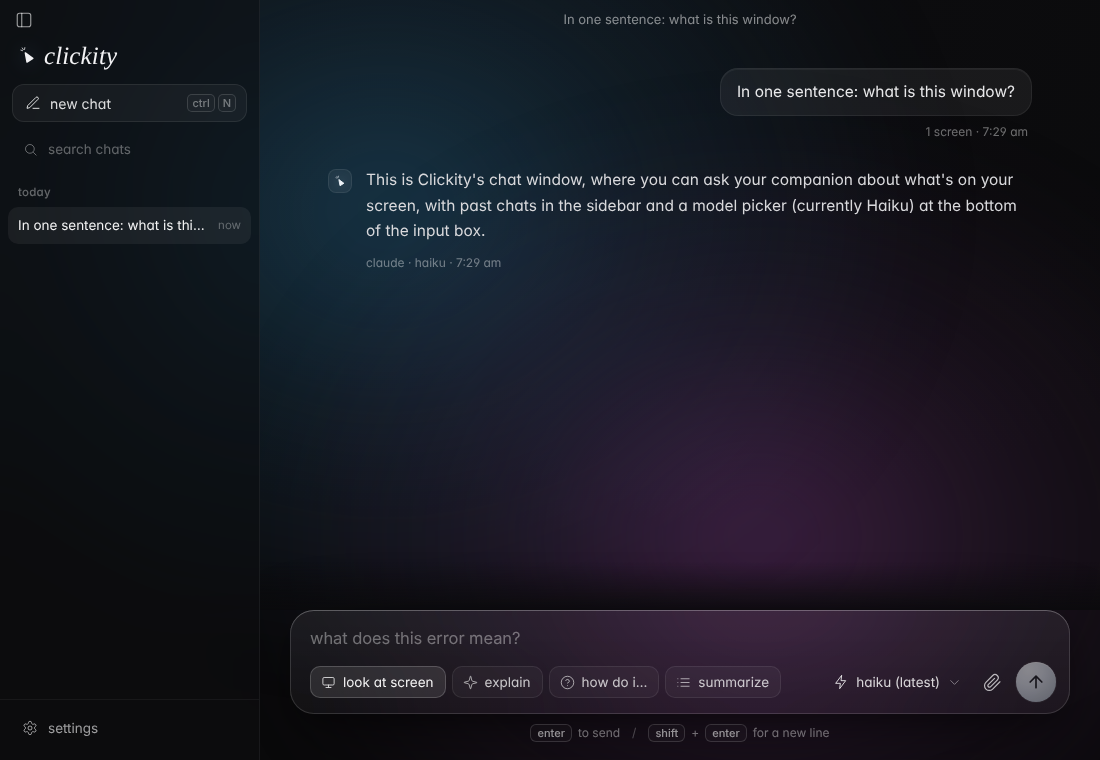
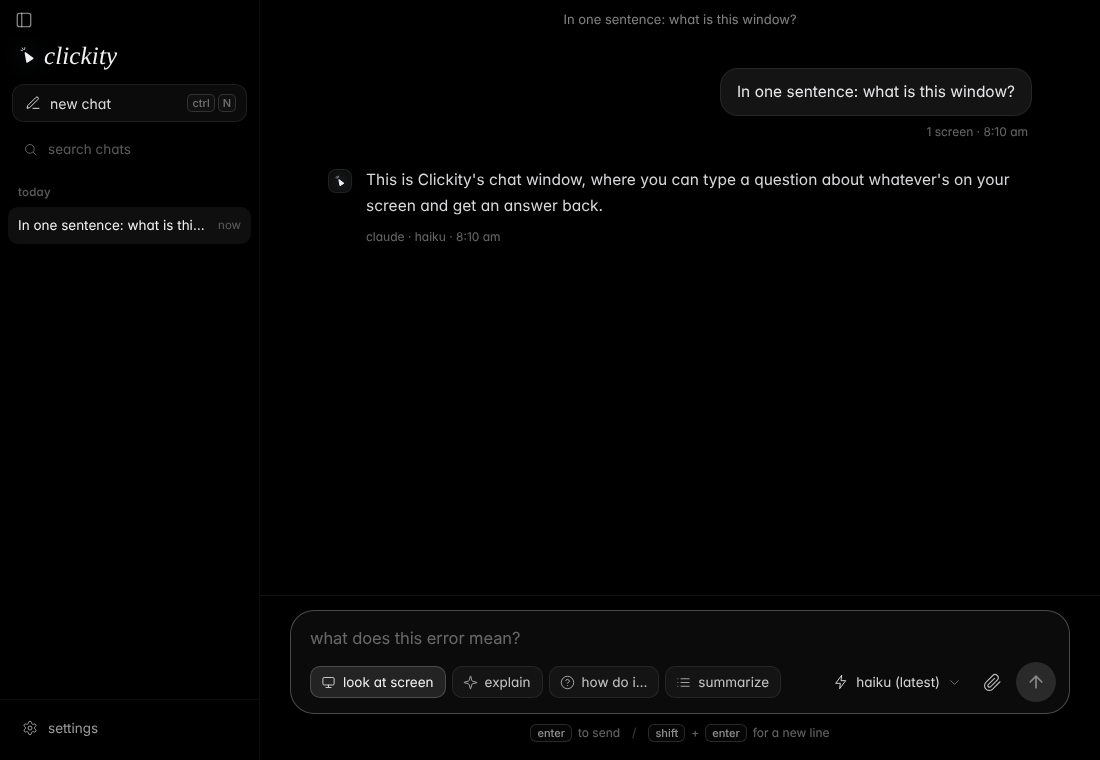
Chats window: pure black, no gradients or glows; motion with anime.js
- flat near-black surfaces with hairlines, solid send button, no backdrop blur
- anime.js (v4): messages rise in, empty state enters in sequence, sidebar rows
  settle, springy send press, popovers open from their anchor
- signature: the mark's click ticks fire whenever clickity starts answering
- all motion skipped under prefers-reduced-motion

diff --git a/src/renderer/chats/chats.css b/src/renderer/chats/chats.css
@@ -2,8 +2,10 @@
 
 :root {
   color-scheme: dark;
-  --bg-0: #0a0a0b;
-  --bg-1: #0d0d10;
+  --bg-0: #000;
+  --bg-1: #000;
+  --surface: #0b0b0c;   /* composer, popovers */
+  --surface-2: #141415; /* hover / selected */
   --text: #e8e8ea;
   --text-2: #d9d9dc;
   --muted: rgba(255, 255, 255, 0.55);
@@ -24,8 +26,7 @@
 * { box-sizing: border-box; }
 html, body { height: 100%; margin: 0; }
 body {
-  background: radial-gradient(120% 100% at 50% 0%, var(--bg-1), var(--bg-0) 70%);
-  background-color: var(--bg-0);
+  background: #000;
   color: var(--text);
   font: 400 15px/1.5 var(--sans);
   font-feature-settings: 'cv11', 'ss01';
@@ -43,31 +44,6 @@ button { cursor: pointer; background: none; border: 0; padding: 0; }
 .ic { width: 18px; height: 18px; flex: none; display: block; }
 .ic.sm { width: 15px; height: 15px; }
 .ic.xs { width: 12px; height: 12px; }
-
-/* ───────────── background glows ───────────── */
-
-.bg { position: fixed; inset: 0; z-index: 0; pointer-events: none; overflow: hidden; }
-.glow { position: absolute; border-radius: 50%; will-change: transform; }
-.glow-a {
-  width: 1100px; height: 900px;
-  left: calc(42% - 640px); top: calc(36% - 520px);
-  background: radial-gradient(closest-side, rgba(40, 110, 150, 0.42), rgba(40, 110, 150, 0.16) 48%, transparent 100%);
-  filter: blur(40px);
-  animation: drift-a 72s ease-in-out infinite alternate;
-}
-.glow-b {
-  width: 1000px; height: 820px;
-  left: calc(68% - 480px); top: calc(70% - 400px);
-  background: radial-gradient(closest-side, rgba(130, 62, 140, 0.42), rgba(120, 60, 130, 0.15) 50%, transparent 100%);
-  filter: blur(40px);
-  animation: drift-b 88s ease-in-out infinite alternate;
-}
-.grain {
-  position: absolute; inset: 0; opacity: 0.5;
-  background: radial-gradient(140% 120% at 50% 40%, transparent 55%, rgba(0, 0, 0, 0.45) 100%);
-}
-@keyframes drift-a { from { transform: translate(0, 0) scale(1); } to { transform: translate(120px, 60px) scale(1.12); } }
-@keyframes drift-b { from { transform: translate(0, 0) scale(1.05); } to { transform: translate(-140px, -70px) scale(0.95); } }
 
 /* ───────────── frame ───────────── */
 
@@ -96,10 +72,8 @@ body.side-collapsed .only-collapsed { display: grid; }
 .sidebar {
   width: var(--side-w); flex: none; height: 100%;
   display: flex; flex-direction: column;
-  background: rgba(14, 14, 17, 0.55);
+  background: #000;
   border-right: 1px solid rgba(255, 255, 255, 0.06);
-  backdrop-filter: blur(30px) saturate(1.2);
-  -webkit-backdrop-filter: blur(30px) saturate(1.2);
   transition: margin-left 0.42s var(--ease), transform 0.42s var(--ease);
   z-index: 20;
 }
@@ -242,47 +216,34 @@ kbd {
 .greeting {
   margin: 0 0 26px; font: italic 400 34px/1.15 var(--serif); letter-spacing: 0.005em;
   color: rgba(255, 255, 255, 0.9); text-align: center;
-  animation: rise 0.9s var(--ease) both;
+  
 }
 .main[data-mode='thread'] .greeting { display: none; }
 .dock { width: 100%; max-width: 820px; position: relative; }
 .main[data-mode='thread'] .dock { max-width: 780px; }
-.main[data-mode='thread'] .stage::before {
-  content: ''; position: absolute; left: 0; right: 0; top: -48px; height: 48px; pointer-events: none;
-  background: linear-gradient(to bottom, rgba(11, 11, 13, 0), rgba(11, 11, 13, 0.85));
-}
+/* the docked composer sits on solid black; a hairline separates it from the thread */
+.main[data-mode='thread'] .stage { background: #000; border-top: 1px solid var(--line); padding-top: 14px; }
 
 /* ───────────── composer ───────────── */
 
 .composer {
   position: relative;
   border-radius: 28px; padding: 22px 18px 16px 24px;
-  background: linear-gradient(180deg, rgba(255, 255, 255, 0.065), rgba(255, 255, 255, 0.035));
-  backdrop-filter: blur(24px) saturate(1.2);
-  -webkit-backdrop-filter: blur(24px) saturate(1.2);
-  box-shadow:
-    inset 0 0 0 1px rgba(255, 255, 255, 0.1),
-    inset 0 1px 0 rgba(255, 255, 255, 0.12),
-    0 30px 80px -20px rgba(0, 0, 0, 0.6),
-    0 10px 30px -10px rgba(0, 0, 0, 0.45);
+  background: var(--surface);
+  box-shadow: inset 0 0 0 1px var(--line-2);
   transition: box-shadow 0.3s, background 0.3s;
-  animation: rise 0.8s 0.05s var(--ease) both;
 }
 .composer:focus-within {
-  box-shadow:
-    inset 0 0 0 1px rgba(255, 255, 255, 0.14),
-    inset 0 1px 0 rgba(255, 255, 255, 0.16),
-    0 30px 90px -20px rgba(0, 0, 0, 0.65),
-    0 10px 30px -10px rgba(0, 0, 0, 0.45);
+  box-shadow: inset 0 0 0 1px rgba(255, 255, 255, 0.26);
 }
-.composer.drop { box-shadow: inset 0 0 0 1px rgba(150, 200, 240, 0.5), 0 30px 80px -20px rgba(0, 0, 0, 0.6); }
+.composer.drop { box-shadow: inset 0 0 0 1px rgba(255, 255, 255, 0.5); background: var(--surface-2); }
 .main[data-mode='thread'] .composer { border-radius: 24px; padding: 14px 14px 12px 20px; }
 
 .composer textarea {
   display: block; width: 100%; resize: none; border: 0; background: transparent; outline: none;
   font: 400 19.5px/1.5 var(--sans); color: var(--text); letter-spacing: -0.005em;
   min-height: 60px; padding: 0 4px 0 0; margin-bottom: 16px; overflow-y: hidden;
-  user-select: text; caret-color: #cfe6ff;
+  user-select: text; caret-color: #fff;
   scrollbar-width: thin; scrollbar-color: rgba(255, 255, 255, 0.12) transparent;
 }
 .composer textarea:focus-visible { outline: none; }
@@ -332,20 +293,14 @@ kbd {
 
 .send {
   width: 46px; height: 46px; border-radius: 50%; margin-left: 4px;
-  display: grid; place-items: center; color: #15181c;
-  background: radial-gradient(120% 120% at 30% 20%, #f1f5f9 0%, #dfe6ee 30%, #9aa6b4 100%);
-  box-shadow:
-    inset 0 1px 0 rgba(255, 255, 255, 0.85),
-    inset 0 -2px 6px rgba(60, 72, 88, 0.35),
-    0 0 0 1px rgba(255, 255, 255, 0.12),
-    0 6px 22px rgba(170, 195, 220, 0.28),
-    0 2px 6px rgba(0, 0, 0, 0.4);
-  transition: transform 0.25s var(--ease), box-shadow 0.25s, opacity 0.25s, filter 0.25s;
+  display: grid; place-items: center; color: #000;
+  background: #f2f2f0;
+  transition: transform 0.25s var(--ease), opacity 0.25s, background 0.2s;
 }
 .send .ic { width: 20px; height: 20px; stroke-width: 2; }
-.send:hover:not(:disabled) { transform: translateY(-1px) scale(1.03); box-shadow: inset 0 1px 0 rgba(255, 255, 255, 0.9), inset 0 -2px 6px rgba(60, 72, 88, 0.35), 0 0 0 1px rgba(255, 255, 255, 0.16), 0 8px 28px rgba(170, 195, 220, 0.4), 0 2px 6px rgba(0, 0, 0, 0.4); }
+.send:hover:not(:disabled) { background: #fff; transform: translateY(-1px); }
 .send:active:not(:disabled) { transform: scale(0.96); }
-.send:disabled { cursor: default; opacity: 0.6; filter: brightness(0.85); box-shadow: inset 0 1px 0 rgba(255, 255, 255, 0.6), 0 0 0 1px rgba(255, 255, 255, 0.08); }
+.send:disabled { cursor: default; background: #2a2a2b; color: rgba(255, 255, 255, 0.45); }
 .send.stop .ic { width: 22px; height: 22px; }
 .main[data-mode='thread'] .send { width: 40px; height: 40px; }
 
@@ -376,8 +331,7 @@ kbd {
   position: absolute; left: 50%; top: -52px; transform: translateX(-50%); z-index: 3;
   height: 32px; padding: 0 14px 0 11px; border-radius: 99px;
   display: inline-flex; align-items: center; gap: 6px; font-size: 13px; color: rgba(255, 255, 255, 0.88);
-  background: rgba(30, 30, 36, 0.8); border: 1px solid rgba(255, 255, 255, 0.12);
-  backdrop-filter: blur(16px); -webkit-backdrop-filter: blur(16px);
+  background: var(--surface-2); border: 1px solid rgba(255, 255, 255, 0.12);
   box-shadow: 0 8px 24px rgba(0, 0, 0, 0.4);
   animation: pop 0.3s var(--ease) both;
 }
@@ -386,13 +340,11 @@ kbd {
 /* ───────────── messages ───────────── */
 
 .msg { display: flex; flex-direction: column; }
-.msg.rise { animation: rise 0.5s var(--ease) both; }
+/* .msg entrance is animated with anime.js (motion.ts) */
 .msg.user { align-items: flex-end; }
 .msg.user .bubble {
   max-width: min(78%, 560px); padding: 11px 16px; border-radius: 18px;
-  background: rgba(255, 255, 255, 0.06); border: 1px solid rgba(255, 255, 255, 0.07);
-  box-shadow: inset 0 1px 0 rgba(255, 255, 255, 0.05);
-  backdrop-filter: blur(12px); -webkit-backdrop-filter: blur(12px);
+  background: var(--surface-2); border: 1px solid var(--line);
   color: var(--text); font-size: 15.5px; line-height: 1.55; white-space: pre-wrap; overflow-wrap: anywhere;
 }
 .msg-atts { display: flex; flex-wrap: wrap; gap: 6px; margin-top: 8px; }
@@ -444,8 +396,7 @@ kbd {
 .popover {
   position: fixed; z-index: 50; min-width: 240px; max-width: 300px; padding: 6px;
   overflow-y: auto;
-  background: rgba(24, 24, 28, 0.78);
-  backdrop-filter: blur(28px) saturate(1.3); -webkit-backdrop-filter: blur(28px) saturate(1.3);
+  background: var(--surface); border: 1px solid var(--line-2);
   border-radius: 16px;
   box-shadow: inset 0 0 0 1px rgba(255, 255, 255, 0.1), inset 0 1px 0 rgba(255, 255, 255, 0.08), 0 24px 60px rgba(0, 0, 0, 0.55);
   opacity: 0; transform: scale(0.97) translateY(4px); transform-origin: top right;
@@ -475,8 +426,7 @@ kbd {
 .toast {
   position: fixed; left: 50%; bottom: 24px; z-index: 60; transform: translate(-50%, 16px);
   padding: 10px 16px; border-radius: 12px; font-size: 13px; color: #ffd9d4;
-  background: rgba(40, 22, 22, 0.85); border: 1px solid rgba(255, 107, 94, 0.25);
-  backdrop-filter: blur(16px); -webkit-backdrop-filter: blur(16px);
+  background: #160b0a; border: 1px solid rgba(255, 107, 94, 0.25);
   opacity: 0; pointer-events: none; transition: opacity 0.25s, transform 0.35s var(--ease);
 }
 .toast.show { opacity: 1; transform: translate(-50%, 0); }
@@ -506,3 +456,6 @@ button, input, textarea, a, .composer, .popover, .row { -webkit-app-region: no-d
   .glow { animation: none !important; }
   .caret { animation: none !important; opacity: 0.7; }
 }
+
+/* anime.js animates the mark's parts in place */
+.mark line, .mark polygon { transform-box: fill-box; transform-origin: center; }

diff --git a/src/renderer/chats/motion.ts b/src/renderer/chats/motion.ts
@@ -1,0 +1,95 @@
+// Motion for the chats window, built on anime.js (v4).
+// One signature moment — the mark's three "click" ticks fire whenever clickity
+// starts answering — and otherwise quiet, quick entrances. Everything is skipped
+// (final state applied instantly) under prefers-reduced-motion.
+import { animate, createSpring, stagger } from 'animejs';
+
+const reduced = (): boolean => matchMedia('(prefers-reduced-motion: reduce)').matches;
+const EASE = 'outExpo';
+
+/** A new message rises into the transcript. */
+export function enterMessage(node: HTMLElement): void {
+  if (reduced()) return;
+  node.style.opacity = '0';
+  animate(node, {
+    opacity: [0, 1],
+    translateY: [node.classList.contains('user') ? 14 : 8, 0],
+    duration: 620,
+    ease: EASE,
+    onComplete: () => {
+      node.style.removeProperty('opacity');
+      node.style.removeProperty('transform');
+    },
+  });
+}
+
+/**
+ * The signature: the tick marks around the cursor tip burst outward and settle,
+ * like the cursor just clicked. Works on any rendered Clickity mark <svg>.
+ */
+export function clickTicks(svg: Element | null | undefined): void {
+  if (!svg || reduced()) return;
+  const ticks = svg.querySelectorAll('line');
+  const arrow = svg.querySelector('polygon');
+  if (!ticks.length) return;
+  animate(ticks, {
+    opacity: [0, 1],
+    scale: [0.2, 1.25, 1],
+    duration: 560,
+    delay: stagger(55),
+    ease: 'outQuart',
+  });
+  if (arrow) {
+    animate(arrow, {
+      scale: [1, 0.86, 1],
+      duration: 380,
+      ease: 'inOutQuad',
+    });
+  }
+}
+
+/** Empty state: greeting, composer and hint arrive in sequence. */
+export function enterEmptyState(parts: Array<Element | null>): void {
+  const els = parts.filter((p): p is Element => !!p);
+  if (reduced() || !els.length) return;
+  animate(els, {
+    opacity: [0, 1],
+    translateY: [18, 0],
+    duration: 900,
+    delay: stagger(90),
+    ease: EASE,
+  });
+}
+
+/** Sidebar rows settle in, one after another. */
+export function enterList(rows: ArrayLike<Element>): void {
+  if (reduced() || !rows.length) return;
+  animate(rows, {
+    opacity: [0, 1],
+    translateX: [-6, 0],
+    duration: 420,
+    delay: stagger(28, { start: 60 }),
+    ease: EASE,
+  });
+}
+
+/** The send button gives a small springy push when a message goes out. */
+export function pressSend(btn: HTMLElement): void {
+  if (reduced()) return;
+  animate(btn, {
+    scale: [0.84, 1],
+    ease: createSpring({ stiffness: 320, damping: 14 }),
+  });
+}
+
+/** Popovers open from their anchor. */
+export function openPopover(el: HTMLElement): void {
+  if (reduced()) return;
+  animate(el, {
+    opacity: [0, 1],
+    scale: [0.96, 1],
+    translateY: [-4, 0],
+    duration: 260,
+    ease: 'outCubic',
+  });
+}

diff --git a/src/renderer/chats/chats.ts b/src/renderer/chats/chats.ts
@@ -15,6 +15,7 @@ import {
 import { $, h, icon, logo, markSvg, type IconName } from './dom';
 import { renderMarkdown } from './markdown';
 import { GROUPS, clock, groupOf, relTime } from './time';
+import { clickTicks, enterEmptyState, enterList, enterMessage, openPopover, pressSend } from './motion';
 
 const api = window.chats;
 const isMac = /Mac/i.test(navigator.platform || navigator.userAgent);
@@ -195,6 +196,7 @@ async function submit(): Promise<void> {
   attachments = [];
   renderAttachments();
   syncComposer();
+  pressSend(el.send);
   const chatId = chat && chat.id ? chat.id : null;
   if (!chatId) awaitingNewChat = true;
   try {
@@ -393,6 +395,7 @@ async function save(patch: Parameters<typeof api.setSettings>[0]): Promise<void>
 
 function placePopover(pop: HTMLElement, anchor: HTMLElement, align: 'left' | 'right' = 'right'): void {
   pop.hidden = false;
+  openPopover(pop);
   pop.style.maxHeight = '';
   const r = anchor.getBoundingClientRect();
   const ph = pop.offsetHeight;
@@ -651,7 +654,9 @@ function syncTitle(): void {
 function showChat(c: Chat | null): void {
   chat = c;
   const empty = !c || c.turns.length === 0;
+  const wasEmpty = el.main.dataset.mode === 'empty';
   el.main.dataset.mode = empty ? 'empty' : 'thread';
+  if (empty && !wasEmpty) enterEmptyState([$('greeting'), $('composer'), $('hint')]);
   el.turns.replaceChildren(...(c ? c.turns.map((t) => renderTurn(t, false)) : []));
   turnEls.clear();
   el.turns.querySelectorAll<HTMLElement>('.msg').forEach((n) => turnEls.set(n.dataset.id!, n));
@@ -773,6 +778,12 @@ function upsertTurn(t: ChatTurn, streamingNow: boolean): void {
     const n = renderTurn(t, true, streamingNow);
     el.turns.append(n);
     turnEls.set(t.id, n);
+    enterMessage(n);
+    // signature: the mark "clicks" as clickity starts to answer
+    if (t.role === 'assistant' && streamingNow) {
+      clickTicks(n.querySelector('.avatar svg'));
+      clickTicks(document.querySelector('#side-brand svg'));
+    }
   }
   afterGrow(isNew);
 }
@@ -909,5 +920,9 @@ async function boot(): Promise<void> {
   showChat(c);
   el.input.focus();
   document.body.classList.add('ready');
+  // first paint: list rows settle in; an empty window brings its composer in, then the mark clicks once
+  enterList(document.querySelectorAll('#sidebar .row'));
+  if (el.main.dataset.mode === 'empty') enterEmptyState([$('greeting'), $('composer'), $('hint')]);
+  setTimeout(() => clickTicks(document.querySelector('#side-brand svg')), 500);
 }
 void boot();

diff --git a/src/renderer/chats/chats.html b/src/renderer/chats/chats.html
@@ -11,7 +11,6 @@
 <link rel="stylesheet" href="./chats.css">
 </head>
 <body>
-<div class="bg" aria-hidden="true"><div class="glow glow-a"></div><div class="glow glow-b"></div><div class="grain"></div></div>
 
 <div class="win-controls" id="win-controls">
   <button class="icon-btn" id="toggle-side" type="button" aria-label="toggle sidebar" title="toggle sidebar (⌘B)" aria-controls="sidebar"></button>
